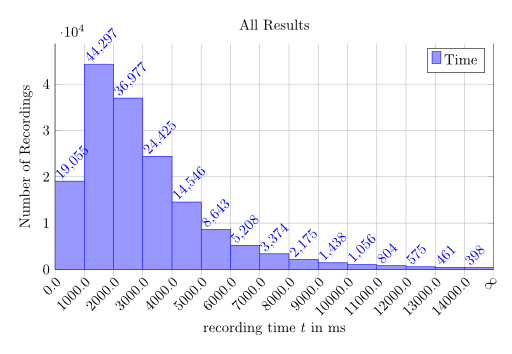
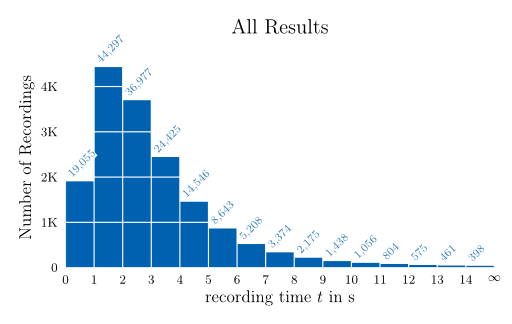
added and automated beautification done by jenson_bo

diff --git a/tikz/histogram-large-1d-dataset/process.py b/tikz/histogram-large-1d-dataset/process.py
@@ -4,6 +4,7 @@
 from __future__ import print_function
 import shutil
 import fileinput
+import math
 
 
 def main(filename, bins, maximum):
@@ -17,7 +18,7 @@ def main(filename, bins, maximum):
     numbers = sorted(numbers)
     minimum = min(numbers)
     bin_counter = [0 for i in range(bins+1)]
-    borders = []
+    xticklabels = []
     for i, number in enumerate(numbers):
         if number >= minimum + (maximum - minimum)/bins*(bins+1):
             bin_counter[bins] += 1
@@ -32,21 +33,56 @@ def main(filename, bins, maximum):
                     break
     for b in range(bins):
         lower = minimum + (maximum - minimum)/bins*b
-        borders.append(str(lower))
-    borders.append("\infty")
-    return bin_counter, borders
+        xticklabels.append(get_xticklabel(lower))
+
+    # Get labels for y-axis
+    ytickslabels = []
+    maxylabel = int(10**math.floor(math.log(max(bin_counter), 10)))
+    ylabelsteps = maxylabel / 10
+    for i in range(0, maxylabel+1, ylabelsteps):
+        ytickslabels.append(get_yticklabel(i, True))
+
+    xticklabels.append("\infty")
+    return bin_counter, xticklabels, ytickslabels
 
 
-def modify_template(bin_counter, borders):
+def get_xticklabel(value):
+    return str(int(value/1000))
+
+
+def get_yticklabel(value, si_suffix):
+    if si_suffix:
+        divide_by, suffix = get_si_suffix(value)
+        new_value = (value / divide_by)
+        if int(new_value) == new_value:
+            return ("%i" % int(new_value)) + suffix
+        else:
+            return ("%0.2f" % new_value) + suffix
+    else:
+        return str(value)
+
+
+def get_si_suffix(value):
+    if value >= 10**3:
+        return (10**3, "K")
+    elif value >= 10**6:
+        return (10**6, "M")
+    else:
+        return (1, "")
+
+
+def modify_template(bin_counter, xticklabels, yticklabels):
     shutil.copyfile("histogram-large-1d-dataset.template.tex",
                     "histogram-large-1d-dataset.tex")
-    xticklabels = ", ".join(map(lambda n: "$%s$" % n, borders))
+    xticklabels = ", ".join(map(lambda n: "$%s$" % n, xticklabels))
+    yticklabels = ", ".join(yticklabels)
     coordinates = ""
     for i, value in enumerate(bin_counter):
         coordinates += "(%i, %i) " % (i, value)
     for line in fileinput.input("histogram-large-1d-dataset.tex",
                                 inplace=True):
         line = line.replace("{{xticklabels}}", xticklabels)
+        line = line.replace("{{yticklabels}}", yticklabels)
         line = line.replace("{{coordinates}}", coordinates)
         print(line, end='')
 
@@ -65,5 +101,7 @@ if __name__ == '__main__':
                         help=("what is the maximum number "
                               "that should get binned?"))
     args = parser.parse_args()
-    bin_counter, borders = main(args.filename, args.bins, args.max)
-    modify_template(bin_counter, borders)
+    bin_counter, xticklabels, yticklabels = main(args.filename,
+                                                 args.bins,
+                                                 args.max)
+    modify_template(bin_counter, xticklabels, yticklabels)

diff --git a/tikz/histogram-large-1d-dataset/histogram-large-1d-dataset.template.tex b/tikz/histogram-large-1d-dataset/histogram-large-1d-dataset.template.tex
@@ -1,7 +1,7 @@
 \documentclass[margin=10pt]{standalone}
 \usepackage{amsmath}
 \usepackage{pgfplots}
-\pgfplotsset{compat=1.10}
+\pgfplotsset{compat=1.3}
 
 \newcommand\clipright[1][white]{
   \fill[#1](current axis.south east)rectangle(current axis.north-|current axis.outer east);
@@ -9,35 +9,47 @@
   \useasboundingbox(current axis.outer south west)rectangle([xshift=.5ex]current axis.outer north-|current axis.east);
 }
 
+\definecolor{mycolor}{rgb}{0.02,0.4,0.7}
+
 \begin{document}
 \begin{tikzpicture}
-    \begin{axis}[/tikz/ybar interval,
-        ybar legend,
-        xtick align=outside,
+    \begin{axis}[
+        ymajorgrids,
+        xmajorgrids,
+        grid style={white,thick},
+        axis on top,
+        /tikz/ybar interval,
+        tick align=outside,
         ymin=0,
-        axis x line*=left,
+        axis line style={draw opacity=0},
+        tick style={draw=none},
         enlarge x limits=false,
-        grid=major,
         height=7cm,
         title={All Results},
-        xlabel={recording time $t$ in ms},
+        title style={font=\Large},
+        xlabel={recording time $t$ in s},
         ylabel={Number of Recordings},
-        xtick={0,...,16},
+        ytick={0,10000,20000,30000,40000},
+        scaled ticks=false,
+        yticklabels={ {{yticklabels}} },
         xticklabels={ {{xticklabels}} },
         width=\textwidth,
         xtick=data,
-        xticklabel style={
-            inner sep=0pt,
-            anchor=north east,
-            rotate=45
+        label style={font=\large},
+        ticklabel style={
+            inner sep=1pt,
+            font=\small
         },
         nodes near coords,
         every node near coord/.append style={
-            anchor=mid west,
+            fill=white,
+            anchor=mid west,    
+            shift={(3pt,4pt)},
+            inner sep=0,
+            font=\footnotesize,
             rotate=45},
             ]
-    \addplot[blue, fill=blue!40!white] coordinates { {{coordinates}} };
-    \legend{Time}
+    \addplot[mycolor!80!white, fill=mycolor, draw=none] coordinates { {{coordinates}} };
     \end{axis}
     \clipright
 \end{tikzpicture}

diff --git a/tikz/histogram-large-1d-dataset/README.md b/tikz/histogram-large-1d-dataset/README.md
@@ -7,3 +7,6 @@ Credits
 
 Thanks to [esdd](http://tex.stackexchange.com/users/43317/esdd) who helped me
 to get the LaTeX part work (see [tex.SE answer](http://tex.stackexchange.com/a/194966/5645))
+
+Thanks to [jenson_bo](http://tex.stackexchange.com/users/17775/jenson-bo) for
+making it beautiful!
